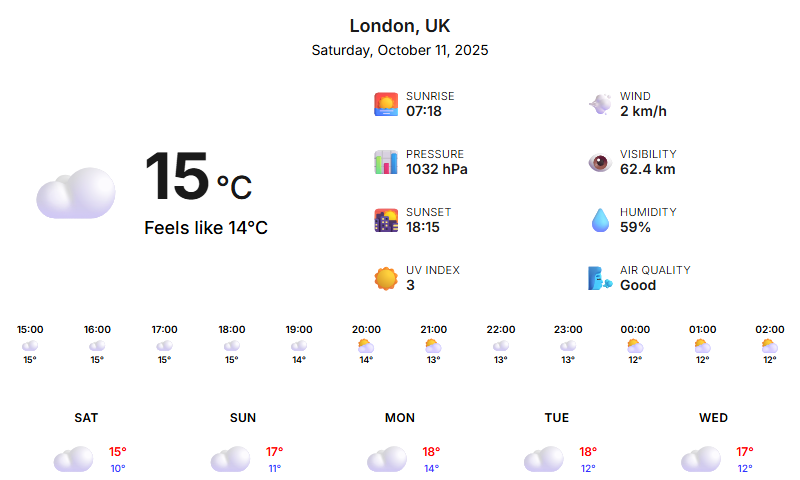
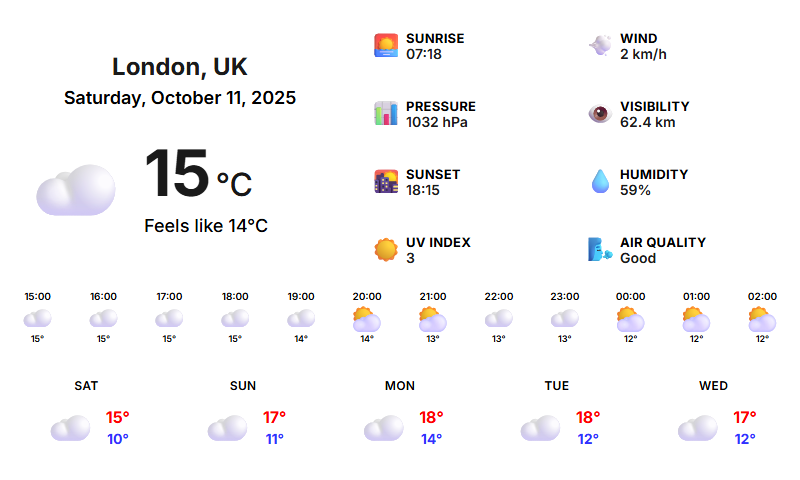
refine css and html

diff --git a/templates/weather.css b/templates/weather.css
@@ -24,27 +24,27 @@ body {
     height: 100%;
     display: flex;
     flex-direction: column;
-    padding: 6px;
-    gap: 4px;
+    padding: 6px 6px 12px 6px;
+    gap: 2px;
 }
 
-/* Header Section */
-.header-section {
+/* Location and Date Section */
+.location-date-section {
     text-align: center;
-    padding: 6px 0;
-    flex: 0 0 50px;
+    padding: 4px 0;
+    margin-bottom: 8px;
 }
 
 .location {
-    font-size: 18px;
-    font-weight: 600;
+    font-size: 24px;
+    font-weight: 700;
     margin: 0;
     color: #1a1a1a;
 }
 
 .date-display {
-    font-size: 14px;
-    font-weight: 400;
+    font-size: 18px;
+    font-weight: 600;
     color: #000000;
     margin-top: 4px;
 }
@@ -53,14 +53,22 @@ body {
 .current-main {
     background: #ffffff;
     padding: 8px;
-    flex: 0 0 240px;
+    flex: 0 0 280px;
     display: flex;
-    align-items: center;
+    align-items: stretch;
     gap: 20px;
 }
 
 .current-left {
     flex: 0 0 200px;
+    display: flex;
+    flex-direction: column;
+    align-items: center;
+    justify-content: center;
+    gap: 8px;
+}
+
+.weather-temp-row {
     display: flex;
     flex-direction: row;
     align-items: center;
@@ -168,9 +176,9 @@ body {
 }
 
 .detail-label {
-    font-size: 11px;
+    font-size: 13px;
     color: #000000;
-    font-weight: 300;
+    font-weight: 700;
     text-transform: uppercase;
     letter-spacing: 0.3px;
     line-height: 1;
@@ -185,7 +193,7 @@ body {
 
 /* Hourly Section */
 .hourly-section {
-    flex: 0 0 70px;
+    flex: 0 0 85px;
     background: #ffffff;
     padding: 2px;
 }
@@ -210,8 +218,8 @@ body {
     justify-content: center;
     text-align: center;
     gap: 1px;
-    height: 40px;
-    max-width: 40px;
+    height: 55px;
+    max-width: 55px;
     overflow: hidden;
 }
 
@@ -222,15 +230,15 @@ body {
 }
 
 .hourly-icon {
-    font-size: 16px;
+    font-size: 28px;
     color: #000000;
     display: flex;
-    align-items: center;
+    align-items: flex-end;
     justify-content: center;
 }
 
 .hourly-icon .icon-symbol {
-    font-size: 16px;
+    font-size: 28px;
     line-height: 1;
 }
 
@@ -305,14 +313,14 @@ body {
 }
 
 .temp-high {
-    font-size: 12px;
-    font-weight: 600;
+    font-size: 16px;
+    font-weight: 700;
     color: rgb(255, 0, 0);
 }
 
 .temp-low {
-    font-size: 10px;
-    font-weight: 500;
+    font-size: 14px;
+    font-weight: 700;
     color: rgb(0, 0, 255);
     opacity: 0.8;
 }
@@ -325,8 +333,8 @@ body {
 /* Responsive adjustments for exact display size */
 @media (max-width: 800px) and (max-height: 480px) {
     .weather-container {
-        padding: 8px;
-        gap: 6px;
+        padding: 8px 8px 12px 8px;
+        gap: 2px;
     }
     
     .current-weather {

diff --git a/templates/weather.html b/templates/weather.html
@@ -10,24 +10,26 @@
 </head>
 <body>
     <div class="weather-container">
-        <!-- Header Section -->
-        <div class="header-section">
-            <h1 class="location" id="location-name">London, UK</h1>
-            <div class="date-display" id="current-date">Thursday, March 13</div>
-        </div>
-
         <!-- Current Weather Section -->
         <div class="current-main">
             <div class="current-left">
-                <div class="weather-icon-large" id="current-icon">
-                    <div class="icon-symbol">☁</div>
+                <!-- Location and Date -->
+                <div class="location-date-section">
+                    <h1 class="location" id="location-name">London, UK</h1>
+                    <div class="date-display" id="current-date">Thursday, March 13</div>
                 </div>
-                <div class="temperature-section">
-                    <div class="temperature-display">
-                        <span class="temperature" id="current-temp">13</span>
-                        <span class="temperature-unit">°C</span>
+                
+                <div class="weather-temp-row">
+                    <div class="weather-icon-large" id="current-icon">
+                        <div class="icon-symbol">☁</div>
                     </div>
-                    <div class="feels-like" id="feels-like">Feels like 15°C</div>
+                    <div class="temperature-section">
+                        <div class="temperature-display">
+                            <span class="temperature" id="current-temp">13</span>
+                            <span class="temperature-unit">°C</span>
+                        </div>
+                        <div class="feels-like" id="feels-like">Feels like 15°C</div>
+                    </div>
                 </div>
             </div>
             
